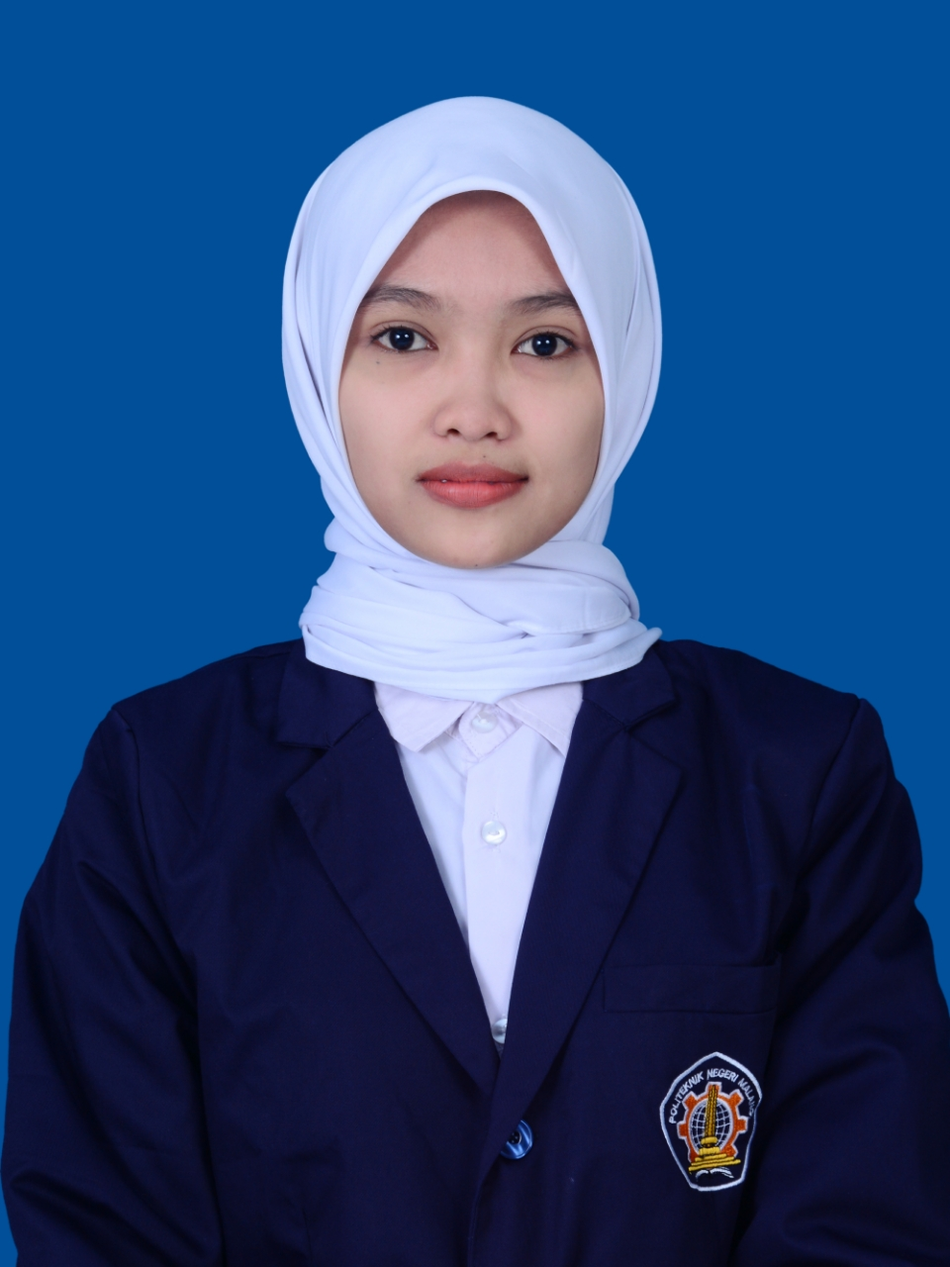
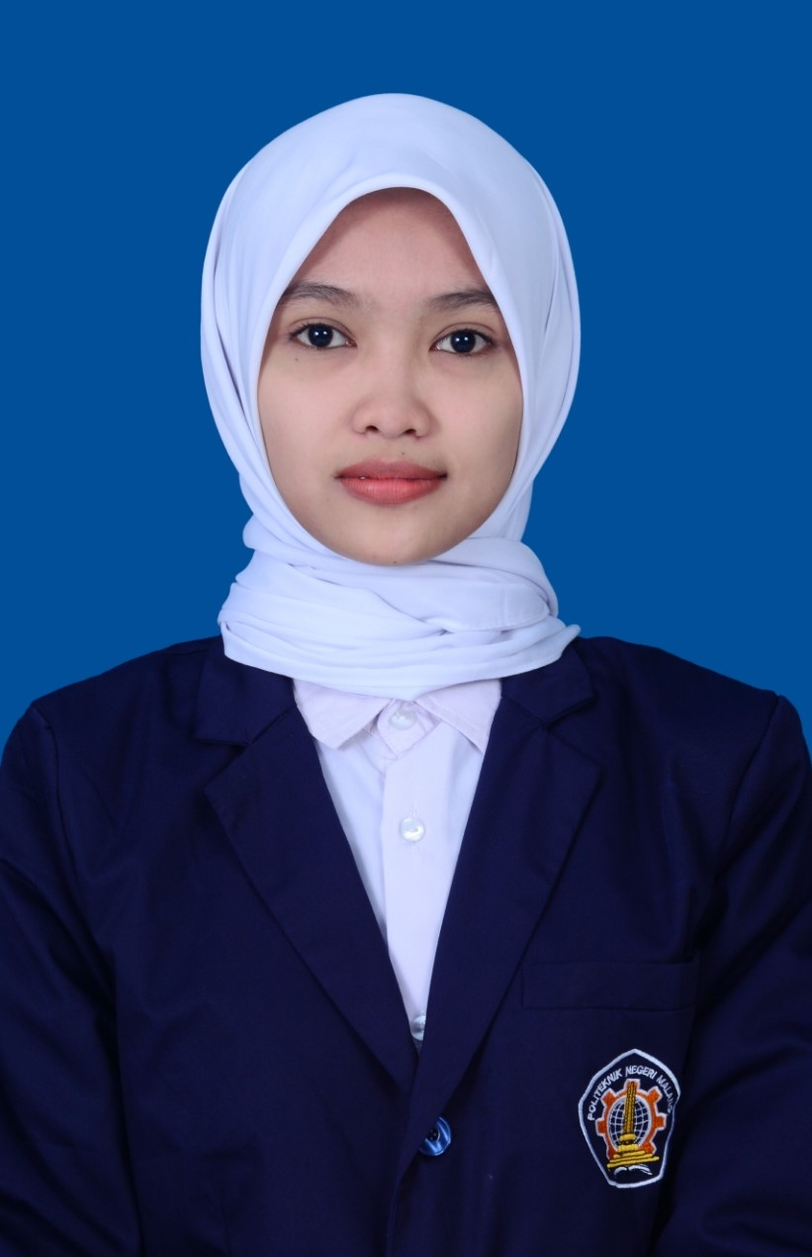
edit tampilan website

diff --git a/application/views/User/Template/footer.php b/application/views/User/Template/footer.php
@@ -31,7 +31,7 @@
                             <div class="footer-logo mb-30">
                                 <a href="#"><img src="<?php echo base_url().'assets/User/img/bg-img/logo_kami.png';?>" alt=""></a>
                             </div>
-                            <p>Terimakasih telah mengunjungi website kami. Semoga Donasi yang anda berikan bermanfaat dan dapat mengurangi populasi sampah di wilayah kota Malang </p>
+                            <p>Terimakasih telah mengunjungi website kami. Semoga Donasi yang anda berikan bermanfaat dan dapat mengurangi populasi sampah di wilayah kota Bojonegoro </p>
                         </div>
                     </div>
                       <!-- Single Footer Widget -->
@@ -44,20 +44,10 @@
                             <!-- Single Best Seller Products -->
                             <div class="single-best-seller-product d-flex align-items-center">
                                 <div class="product-thumbnail">
-                                    <a href="https://malangkota.go.id/"><img src="<?php echo base_url().'assets/User/img/bg-img/logo_malang.png';?>" alt=""></a>
+                                    <a href="https://bojonegorokab.go.id/"><img src="<?php echo base_url().'assets/User/img/bg-img/logo_bojonegoro.png';?>" alt=""></a>
                                 </div>
                                 <div class="product-info">
-                                    <a href="https://malangkota.go.id/">Pemerintah Kota Malang</a>
-                                </div>
-                            </div>
-
-                            <!-- Single Best Seller Products -->
-                            <div class="single-best-seller-product d-flex align-items-center">
-                                <div class="product-thumbnail">
-                                    <a href="http://banksampahmalang.com/galeri/kunjungan.html"><img src="<?php echo base_url().'assets/User/img/bg-img/logo_bsm.png';?>" alt=""></a>
-                                </div>
-                                <div class="product-info">
-                                    <a href="http://banksampahmalang.com/galeri/kunjungan.html">Bank Sampah Kota Malang</a>
+                                    <a href="https://bojonegorokab.go.id/">Pemerintah Kota Bojonegoro</a>
                                 </div>
                             </div>
                         </div>
@@ -70,10 +60,8 @@
                             </div>
                             <nav class="widget-nav">
                                 <ul>
-                                    <li><a href="<?php echo base_url("Admin/register");?>">Donasi</a></li>
                                     <li><a href="<?php echo base_url("User/galeri");?>">Galeri</a></li>
                                     <li><a href="<?php echo base_url("User/berita");?>">Berita</a></li>
-                                    <li><a href="<?php echo base_url("User/register");?>">Registrasi</a></li>
                                     <li><a href="<?php echo base_url("User/profile");?>">Profile</a></li>
                                     <li><a href="<?php echo base_url("User/pelatihan");?>">Pelatihan</a></li>
                                     <li><a href="<?php echo base_url("User/pendampingan");?>">Pendampingan</a></li>
@@ -92,9 +80,9 @@
                             </div>
 
                             <div class="contact-information">
-                                <p><span>Address:</span> Jl. S. Supriyadi No. 38 (Belakang SPBU Sukun) Malang - Jawa Timur</p>
-                                <p><span>Phone:</span>+62 85204444886 </p>
-                                <p><span>Email:</span> banksampahmalang123@gmail.com </p>
+                                <p><span>Address:</span>  Jl. Mastoer, Banaran Kidul, Mojodeso, Kec. Kapas, Kabupaten Bojonegoro, Jawa Timur 62181 </p>
+                                <p><span>Phone:</span>+62 85790926971 </p>
+                                <p><span>Email:</span> banksampahbojonegoro123@gmail.com </p>
                                 <p><span>Open hours:</span> Mon - Sun: 8 AM to 9 PM</p>
                                 <p><span>Happy hours:</span> Sat: 2 PM to 4 PM</p>
                             </div>

diff --git a/application/views/User/dashboard/index.php b/application/views/User/dashboard/index.php
@@ -8,7 +8,7 @@
     <!-- The above 4 meta tags *must* come first in the head; any other head content must come *after* these tags -->
 
     <!-- Favicon -->
-    <link rel="icon" href="<?php echo base_url().'assets/image/logo_malang.png';?>">
+    <link rel="icon" href="<?php echo base_url().'assets/image/logo_bojonegoro.png';?>">
     
     <!-- Core Stylesheet -->
     <link rel="stylesheet" href="<?php echo base_url().'assets/User/style.css';?>">
@@ -142,7 +142,7 @@
                 <div class="col-12">
                     <!-- Section Heading -->
                     <div class="section-heading text-center">
-                        <h2>Pendiri Bank Sampah</h2>
+                        <h2>Pendiri Bank Sampah Bojonegoro</h2>
                         <p>Manajemen Informatika class 2E</p>
                     </div>
                 </div>
@@ -155,7 +155,7 @@
                     <div class="single-team-member text-center mb-100">
                         <!-- Team Member Thumb -->
                         <div class="team-member-thumb">
-                            <img src="<?php echo base_url().'assets/image/p_candra.jpg';?>" style="width:600px; height:400px;" alt="">
+                            <img src="<?php echo base_url().'assets/image/p_alvira.JPG';?>" style="width:600px; height:400px;" alt="">
                             <!-- Social Info -->
                             <div class="team-member-social-info">
                             <a href="#"><i class="fa fa-facebook" aria-hidden="true"></i></a>
@@ -166,7 +166,7 @@
                         <!-- Team Member Info -->
                         <div class="team-member-info mt-30">
                             <h5>Alvira Dewi Septyan</h5>
-                            <p>2031710054</p>
+                            <p>2031710035</p>
                         </div>
                     </div>
                 </div>
@@ -197,7 +197,7 @@
                     <div class="single-team-member text-center mb-100">
                         <!-- Team Member Thumb -->
                         <div class="team-member-thumb">
-                            <img src="<?php echo base_url().'assets/image/p_candra.jpg';?>" style="width:600px; height:400px;" alt="">
+                            <img src="<?php echo base_url().'assets/image/p_nissa.png';?>" style="width:600px; height:400px;" alt="">
                             <!-- Social Info -->
                             <div class="team-member-social-info">
                                 <a href="#"><i class="fa fa-facebook" aria-hidden="true"></i></a>
@@ -208,7 +208,7 @@
                         <!-- Team Member Info -->
                         <div class="team-member-info mt-30">
                             <h5>Nissa Nursabrina</h5>
-                            <p>2031710056</p>
+                            <p>2031710029</p>
                         </div>
                     </div>
                 </div>
@@ -224,7 +224,7 @@
                 <div class="col-12 col-md-20">
                     <div class="contact--thumbnail-center">
                         <div class="map-area mb-100">
-                        <iframe src="https://www.google.com/maps/embed?pb=!1m18!1m12!1m3!1d31610.312102111984!2d112.6049275578226!3d-7.969054332657968!2m3!1f0!2f0!3f0!3m2!1i1024!2i768!4f13.1!3m3!1m2!1s0x2e7882a9d385ba91%3A0x667db69be1ab50c9!2sBank%20Sampah%20Malang!5e0!3m2!1sen!2sid!4v1586118135626!5m2!1sen!2sid" allowfullscreen="" ></iframe>
+                        <iframe src="https://maps/dir/-7.1876288,111.9196493/Bank+Sampah+Desa+Mojodeso,+Jl.+Mastoer,+Banaran+Kidul,+Mojodeso,+Kec.+Kapas,+Kabupaten+Bojonegoro,+Jawa+Timur+62181/@-7.1878843,111.8849737,13z/data=!4m8!4m7!1m0!1m5!1m1!1s0x2e77811d86629d2d:0x4761f34bd1bf85!2m2!1d111.9199949!2d-7.187962" allowfullscreen="" ></iframe>
                         </div>
                     </div>
                 </div>

diff --git a/application/views/User/daur_ulang/index.php b/application/views/User/daur_ulang/index.php
@@ -8,7 +8,7 @@
     <!-- The above 4 meta tags *must* come first in the head; any other head content must come *after* these tags -->
 
     <!-- Favicon -->
-    <link rel="icon" href="<?php echo base_url().'assets/image/logo_malang.png';?>">
+    <link rel="icon" href="<?php echo base_url().'assets/image/logo_bojonegoro.png';?>">
     
     <!-- Core Stylesheet -->
     <link rel="stylesheet" href="<?php echo base_url().'assets/User/style.css';?>">
@@ -49,11 +49,11 @@
                         <div class="single-post-details-area">
                             <div class="post-content">
                                 <h4 class="post-title">Daur Ulang</h4>
-                                <p>BSM menganut falsafah 3R (Reduce, Reuse, Recycle), salah satu penerapan sistem recycle (daur ulang) di bank sampah malang adalah dengan membuat beraneka ragam produk daur ulang yang berbahan dasar menggunakan sampah anorganik.</p>                      
+                                <p>SIMBASABO menganut falsafah 3R (Reduce, Reuse, Recycle), salah satu penerapan sistem recycle (daur ulang) di Bank Sampah Bojonegoro adalah dengan membuat beraneka ragam produk daur ulang yang berbahan dasar menggunakan sampah anorganik.</p>                      
                                 <div class="post-thumbnail mb-30">
                                     <img src="<?php echo base_url().'assets/User/img/bg-img/daurulang_b1.png';?>" alt="">
                                 </div>
-                                <p>Bank Sampah Malang menganut falsafah 3R (Reduce, Reuse, Recycle), salah satu penerapan sistem recycle (daur ulang) di bank sampah malang adalah dengan membuat beraneka ragam produk-produk kerajinan daur ulang yang berbahan dasar menggunakan sampah anorganik seperti plastik hasil sampah metalising dari bungkus kopi ataupun snack, sampah gelas plastik, dan juga sampah kertas.</p>
+                                <p>Bank Sampah Bojonegoro menganut falsafah 3R (Reduce, Reuse, Recycle), salah satu penerapan sistem recycle (daur ulang) di Bank Sampah Malang adalah dengan membuat beraneka ragam produk-produk kerajinan daur ulang yang berbahan dasar menggunakan sampah anorganik seperti plastik hasil sampah metalising dari bungkus kopi ataupun snack, sampah gelas plastik, dan juga sampah kertas.</p>
                                 <div class="post-thumbnail mb-30">
                                     <img src="<?php echo base_url().'assets/User/img/bg-img/daurulang_b2.png';?>" alt="">
                                 </div>
@@ -61,7 +61,7 @@
                                 <div class="post-thumbnail mb-30">
                                     <img src="<?php echo base_url().'assets/User/img/bg-img/daurulang_b3.png';?>" alt="">
                                 </div>
-                                <p>Beragam hasil kerajinan daur ulang tersebut merupakan hasil kolaborasi antara Bank Sampah Malang dengan para nasabahnya, hasil-hasil kerajinan terbaik dapat dipasarkan langsung melalui Bank Sampah Malang.</p>
+                                <p>Beragam hasil kerajinan daur ulang tersebut merupakan hasil kolaborasi antara Bank Sampah Bojonegoro dengan para nasabahnya, hasil-hasil kerajinan terbaik dapat dipasarkan langsung melalui Bank Sampah Malang.</p>
                         <!-- Post Tags & Share -->
                         <div class="post-tags-share d-flex justify-content-between align-items-center">
                             <!-- Tags -->

diff --git a/application/views/User/profile/index.php b/application/views/User/profile/index.php
@@ -8,7 +8,7 @@
     <!-- The above 4 meta tags *must* come first in the head; any other head content must come *after* these tags -->
 
     <!-- Favicon -->
-    <link rel="icon" href="<?php echo base_url().'assets/image/logo_malang.png';?>">
+    <link rel="icon" href="<?php echo base_url().'assets/image/logo_bojonegoro.png';?>">
     
     <!-- Core Stylesheet -->
     <link rel="stylesheet" href="<?php echo base_url().'assets/User/style.css';?>">
@@ -45,7 +45,7 @@
                 <!-- Contact Thumbnail -->
                 <div class="col-12 col-md-6">
                     <div class="contact--thumbnail">
-                        <img src="<?php echo base_url().'assets/User/img/bg-img/profile_b1.png';?>" alt="">
+                        <img src="<?php echo base_url().'assets/User/img/bg-img/profile_b1.jpg';?>" alt="">
                     </div>
                 </div>
 
@@ -53,12 +53,12 @@
                     <!-- Section Heading -->
                     <div class="section-heading">
                         <h2>Profile</h2>
-                        <p>Bank Sampah Kota Malang.</p>
+                        <p>Bank Sampah Bojonegoro.</p>
                     </div>
                     <!-- Contact Information -->
                     <div class="contact-information">
                         <p></p>
-                        <p>Bank Sampah Malang (BSM) adalah suatu lembaga yang berbadan hukum koperasi yang pendiriannya difasilitasi oleh Pemerintah Kota Malang melalui Dinas Kebersihan dan Pertamanan untuk membantu dalam hal pemberdayaan masyarakat untuk ikut serta aktif dalam pengolahan sampah dari sumbernya (rumah tangga). Seiring perjalanan waktu BSM menjadi mitra Kota Malang dalam hal membina, melatih, mendampingi dalam pengolahan sampah 3R (reduce, reuse and recycle) masyarakat Kota Malang yang mandiri dilihat dari biaya operasional yang dapat dibiayai sendiri.</p>
+                        <p>Bank Sampah Bojonegoro(SIMBASABO) adalah suatu lembaga yang berbadan hukum koperasi yang pendiriannya difasilitasi oleh Pemerintah Kota Bojonegoro melalui Dinas Kebersihan dan Pertamanan untuk membantu dalam hal pemberdayaan masyarakat untuk ikut serta aktif dalam pengolahan sampah dari sumbernya (rumah tangga). Seiring perjalanan waktu SIMBASABO menjadi mitra Kota Bojonegoro dalam hal membina, melatih, mendampingi dalam pengolahan sampah 3R (reduce, reuse and recycle) masyarakat Kota Bojonegoro yang mandiri dilihat dari biaya operasional yang dapat dibiayai sendiri.</p>
                     </div>
                 </div>
             </div>

diff --git a/application/views/User/studi/index.php b/application/views/User/studi/index.php
@@ -49,15 +49,15 @@
                         <div class="single-post-details-area">
                             <div class="post-content">
                                 <h4 class="post-title">Studi Banding</h4>
-                                <p>Kegiatan studi banding bank sampah malang merupakan kegiatan yang bertujuan untuk menambah wawasan dan pengetahuan bagi masyarakat umum yang ingin mempelajari seluruh aktivitas yang ada di bank sampah malang. </p>                      
+                                <p>Kegiatan studi banding Bank Sampah Bojonegoro merupakan kegiatan yang bertujuan untuk menambah wawasan dan pengetahuan bagi masyarakat umum yang ingin mempelajari seluruh aktivitas yang ada di Bank Sampah Bojonegoro. </p>                      
                                 <div class="post-thumbnail mb-30">
                                     <img src="<?php echo base_url().'assets/User/img/bg-img/studi_b1.png';?>" alt="">
                                 </div>
-                                <p>Kegiatan studi banding bank sampah malang merupakan kegiatan yang bertujuan untuk menambah wawasan dan pengetahuan bagi masyarakat umum yang ingin mempelajari seluruh aktivitas yang ada di bank sampah malang. </p>
+                                <p>Kegiatan studi banding Bank Sampah Bojonegoro merupakan kegiatan yang bertujuan untuk menambah wawasan dan pengetahuan bagi masyarakat umum yang ingin mempelajari seluruh aktivitas yang ada di Bank Sampah Bojonegoro. </p>
                                 <div class="post-thumbnail mb-30">
                                     <img src="<?php echo base_url().'assets/User/img/bg-img/studi_b2.png';?>" alt="">
                                 </div>
-                                <p>Peserta yang sudah melakuakan studi banding di bank sampah malang berasal dari hampir seluruh wilayah indonesia yang mewakili provinsi, kab./kota, ataupun kelurahan/desa.</p>
+                                <p>Peserta yang sudah melakuakan studi banding di Bank Sampah Bojonegoro berasal dari hampir seluruh wilayah indonesia yang mewakili provinsi, kab./kota, ataupun kelurahan/desa.</p>
                         <!-- Post Tags & Share -->
                         <div class="post-tags-share d-flex justify-content-between align-items-center">
                             <!-- Tags -->

diff --git a/application/views/User/pendampingan/index.php b/application/views/User/pendampingan/index.php
@@ -8,7 +8,7 @@
     <!-- The above 4 meta tags *must* come first in the head; any other head content must come *after* these tags -->
 
     <!-- Favicon -->
-    <link rel="icon" href="<?php echo base_url().'assets/image/logo_malang.png';?>">
+    <link rel="icon" href="<?php echo base_url().'assets/image/logo_bojonegoro.png';?>">
     
     <!-- Core Stylesheet -->
     <link rel="stylesheet" href="<?php echo base_url().'assets/User/style.css';?>">
@@ -49,11 +49,11 @@
                         <div class="single-post-details-area">
                             <div class="post-content">
                                 <h4 class="post-title">Pendampingan</h4>
-                                <p>Salah satu tugas dan fungsi Bank Sampah Malang adalah memberikan sosialisasi dan pendampingan kepada masyarakat umum mengenai pengelolaan sampah serta manfaat sosial, ekonomi, dan lingkungan yang dihasilkan dari proses pengelolaan sampah tersebut.</p>                      
+                                <p>Salah satu tugas dan fungsi Bank Sampah Bojonegoro adalah memberikan sosialisasi dan pendampingan kepada masyarakat umum mengenai pengelolaan sampah serta manfaat sosial, ekonomi, dan lingkungan yang dihasilkan dari proses pengelolaan sampah tersebut.</p>                      
                                 <div class="post-thumbnail mb-30">
                                     <img src="<?php echo base_url().'assets/User/img/bg-img/pendampingan_b1.png';?>" alt="">
                                 </div>
-                                <p>Sosialisasi dan pendampingan masyarakat yang dilakukan oleh Bank Sampah Malang telah tersebar lebih dari wilayah Malang Raya, bahkan kegiatan tersebut telah dilakukan hingga skala nasional melalui kunjungan keberbagai kota di Indonesia.  </p>
+                                <p>Sosialisasi dan pendampingan masyarakat yang dilakukan oleh Bank Sampah Bojonegoro telah tersebar lebih dari wilayah Bojonegoro, bahkan kegiatan tersebut telah dilakukan hingga skala nasional melalui kunjungan keberbagai kota di Indonesia.  </p>
                         <!-- Post Tags & Share -->
                         <div class="post-tags-share d-flex justify-content-between align-items-center">
                             <!-- Tags -->

diff --git a/application/views/User/workshop/index.php b/application/views/User/workshop/index.php
@@ -8,7 +8,7 @@
     <!-- The above 4 meta tags *must* come first in the head; any other head content must come *after* these tags -->
 
     <!-- Favicon -->
-    <link rel="icon" href="<?php echo base_url().'assets/image/logo_malang.png';?>">
+    <link rel="icon" href="<?php echo base_url().'assets/image/logo_bojonegoro.png';?>">
     
     <!-- Core Stylesheet -->
     <link rel="stylesheet" href="<?php echo base_url().'assets/User/style.css';?>">
@@ -49,11 +49,11 @@
                         <div class="single-post-details-area">
                             <div class="post-content">
                                 <h4 class="post-title">Workshop</h4>
-                                <p>Bank Sampah Malang juga melayani kegiatan workshop yang dapat dilakukan ditempat ataupun dilokasi lain sesuai dengan kegiatan-kegiatan yang dilakukan masyarakat. </p>                      
+                                <p>Bank Sampah Bojonegoro juga melayani kegiatan workshop yang dapat dilakukan ditempat ataupun dilokasi lain sesuai dengan kegiatan-kegiatan yang dilakukan masyarakat. </p>                      
                                 <div class="post-thumbnail mb-30">
                                     <img src="<?php echo base_url().'assets/User/img/bg-img/workshop_b1.png';?>" alt="">
                                 </div>
-                                <p>Bank Sampah Malang juga melayani kegiatan workshop yang dapat dilakukan ditempat ataupun dilokasi lain sesuai dengan kegiatan-kegiatan yang dilakukan masyarakat. Kegiatan ini menggabungkan anatara teori dengan praktek nyata yang sudah dilakukan para pakar persampahan Bank Sampah Malang. </p>
+                                <p>Bank Sampah Bojonegoro juga melayani kegiatan workshop yang dapat dilakukan ditempat ataupun dilokasi lain sesuai dengan kegiatan-kegiatan yang dilakukan masyarakat. Kegiatan ini menggabungkan anatara teori dengan praktek nyata yang sudah dilakukan para pakar persampahan Bank Sampah Bojonegoro. </p>
                                 <div class="post-thumbnail mb-30">
                                     <img src="<?php echo base_url().'assets/User/img/bg-img/workshop_b2.png';?>" alt="">
                                 </div>

diff --git a/application/views/member/home/index.php b/application/views/member/home/index.php
@@ -1,11 +1,11 @@
 <title>Halaman Dashboard Member</title>
 <div class = "card-body">
 <div class="alert alert-success" role="alert">
-  <h4 class="alert-heading">Selamat Datang di Member Bank Sampah Malang</h4>
-  <p>Bank Sampah Malang (BSM) adalah suatu lembaga yang berbadan hukum koperasi yang pendiriannya difasilitasi oleh Pemerintah Kota Malang melalui Dinas Kebersihan dan Pertamanan untuk membantu dalam hal pemberdayaan masyarakat untuk ikut serta aktif dalam pengolahan sampah dari sumbernya (rumah tangga). Seiring perjalanan waktu BSM menjadi mitra Kota Malang dalam hal membina, melatih, mendampingi dalam pengolahan sampah 3R (reduce, reuse and recycle) masyarakat Kota Malang yang mandiri dilihat dari biaya operasional yang dapat dibiayai sendiri.</p>
+  <h4 class="alert-heading">Selamat Datang di Member Bank Sampah Bojonegoro</h4>
+  <p>Bank Sampah Bojonegoro adalah suatu lembaga yang berbadan hukum koperasi yang pendiriannya difasilitasi oleh Pemerintah Kota Bojonegoro melalui Dinas Kebersihan dan Pertamanan untuk membantu dalam hal pemberdayaan masyarakat untuk ikut serta aktif dalam pengolahan sampah dari sumbernya (rumah tangga). Seiring perjalanan waktu SIMBASABO menjadi mitra Kota Bojonegoro dalam hal membina, melatih, mendampingi dalam pengolahan sampah 3R (reduce, reuse and recycle) masyarakat Kota Bojonegoro yang mandiri dilihat dari biaya operasional yang dapat dibiayai sendiri.</p>
 
   <hr>
-  <p class="mb-0">Berikut ini adalah ketentuan donasi di Bank Sampah Malang :</p>
+  <p class="mb-0">Berikut ini adalah ketentuan donasi di Bank Sampah Bojonegoro :</p>
   <br>
   <p class="mb-0">1. Donasi terbagi menjadi 2 macam yaitu Tepakai dan Tidak Terpakai. Terpakai yaitu seperti Baju Bekas,
   Perabotan Bekas, Buku Bekas dll. Sedangkan tidak terpakai adalah seperti sampah anargonik seperti botol bekas,kardus bekas, gelas plastik bekas. </p>

diff --git a/application/views/User/pelatihan/index.php b/application/views/User/pelatihan/index.php
@@ -8,7 +8,7 @@
     <!-- The above 4 meta tags *must* come first in the head; any other head content must come *after* these tags -->
 
     <!-- Favicon -->
-    <link rel="icon" href="<?php echo base_url().'assets/image/logo_malang.png';?>">
+    <link rel="icon" href="<?php echo base_url().'assets/image/logo_bojonegoro.png';?>">
     
     <!-- Core Stylesheet -->
     <link rel="stylesheet" href="<?php echo base_url().'assets/User/style.css';?>">
@@ -49,7 +49,7 @@
                         <div class="single-post-details-area">
                             <div class="post-content">
                                 <h4 class="post-title">Pelatihan</h4>
-                                <p>Kegiatan pelatihan di Bank Sampah Malang meliputi kegiatan pemilahan sampah dan kegiatan pelatihan kerajinan daur ulang sampah. </p>                      
+                                <p>Kegiatan pelatihan di Bank Sampah Bojonegoro meliputi kegiatan pemilahan sampah dan kegiatan pelatihan kerajinan daur ulang sampah. </p>                      
                                 <div class="post-thumbnail mb-30">
                                     <img src="<?php echo base_url().'assets/User/img/bg-img/pelatihan_b1.png';?>" alt="">
                                 </div>

diff --git a/application/views/laporan_pdf.php b/application/views/laporan_pdf.php
@@ -3,9 +3,9 @@
 <html><head>
     <title></title>
 </head><body>
-    <h3 style="font-size:4rem;text-align:center;margin:0;padding:0">Bank Sampah Malang</h3>
-    <p style="text-align:center;margin:0;padding:0">Jalan S Supriyadi No.38 A, Sukun, Kec. Sukun, Kota Malang, Jawa Timur 65147</p>
-    <p style="text-align:center;margin:0;padding:0">telp : (0341) 341618(0341) &nbsp;&nbsp; FAX : 44556634</p>
+    <h3 style="font-size:4rem;text-align:center;margin:0;padding:0">Bank Sampah Bojonegoro</h3>
+    <p style="text-align:center;margin:0;padding:0"> Jl. Mastoer, Banaran Kidul, Mojodeso, Kec. Kapas, Kabupaten Bojonegoro, Jawa Timur 62181 </p>
+    <p style="text-align:center;margin:0;padding:0">telp : +62 85790926971 &nbsp;&nbsp; FAX : 44556634</p>
     <hr>
     <hr>
     <br>
@@ -67,9 +67,9 @@
         </p>
         <br><br><br><br><br><br><br><br>
  
-        <p style="text-align:right">Malang,...,.........,.....</p>
+        <p style="text-align:right">Bojonegoro,...,.........,.....</p>
         
         <br><br><br><br>
-        <p style="text-align:right"> Bank Sampah Malang </p>
+        <p style="text-align:right"> Bank Sampah Bojonegoro </p>
     </div>
 </body></html>

diff --git a/application/views/User/Template/navbar.php b/application/views/User/Template/navbar.php
@@ -40,8 +40,8 @@
                         <div class="top-header-content d-flex align-items-center justify-content-between">
                             <!-- Top Header Content -->
                             <div class="top-header-meta">
-                                <a href="#"title=" banksampahmalang123@gmail.com"><i class="fa fa-envelope-o" aria-hidden="true"></i> <span>Email:  banksampahmalang123@gmail.com</span></a>
-                                <a href="#"data-placement="bottom" title="(+62) 85204444886 "><i class="fa fa-phone" aria-hidden="true"></i> <span>Call Us: (+62) 85204444886</span></a>
+                                <a href="#"title=" banksampahbojonegoro123@gmail.com"><i class="fa fa-envelope-o" aria-hidden="true"></i> <span>Email:  banksampahbojonegoro123@gmail.com</span></a>
+                                <a href="#"data-placement="bottom" title="(+62) 85790926971 "><i class="fa fa-phone" aria-hidden="true"></i> <span>Call Us: (+62) 85790926971</span></a>
                             </div>
 
                             <!-- Top Header Content -->

diff --git a/application/views/User/galeri/index.php b/application/views/User/galeri/index.php
@@ -10,7 +10,7 @@
     <!-- The above 4 meta tags *must* come first in the head; any other head content must come *after* these tags -->
 
    <!-- Favicon -->
-   <link rel="icon" href="<?php echo base_url().'assets/image/logo_malang.png';?>">
+   <link rel="icon" href="<?php echo base_url().'assets/image/logo_bojonegoro.png';?>">
    
    <link rel="stylesheet" href="<?php echo base_url().'assets/User/style.css';?>">
    <link rel="stylesheet" href="<?php echo base_url().'assets/User/css/classy-nav.css.map';?>">
@@ -50,7 +50,7 @@
                     <!-- Section Heading -->
                     <div class="section-heading text-center">
                         <h2>OUR Galeri</h2>
-                        <p>Kita menyimpan semua foro kegiatan di Galery</p>
+                        <p>Kita menyimpan semua foto kegiatan di Galery</p>
                     </div>
                 </div>
             </div>
